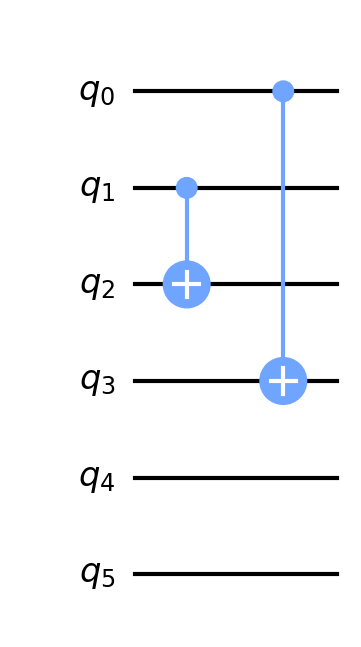
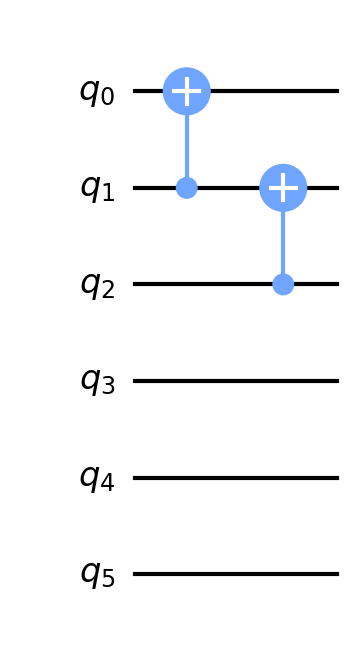
still working on it - push to pc

diff --git a/ZCswap_gaps.py b/ZCswap_gaps.py
@@ -199,28 +199,26 @@ class SabreSwap(TransformationPass):
 
     def zc_handle_cnot_new(self, mapped_dag: DAGCircuit, new_node: DAGOpNode, current_layout: Layout):
         priors = self.get_prior(new_node, current_layout)
-        if len(priors) == 2 and None not in priors:
-            print(priors)
-            print(self.gate_storage.storage)
-
-        for qubit in get_qubits_from_layout(new_node, current_layout):
-            prior = self.gate_storage.get_gate(qubit)
-            if prior is not None:
-                print(f"Found {prior} on qubit {qubit}")
-                if self.apply_before(mapped_dag, prior, new_node):
-                    print("Applying it first")
-                    apply_on_dag(mapped_dag, new_node)
-                    # Prior is still unapplied, so we leave it
-                    return
-
-                print("Better to apply it after")
-                # Apply the prior first as we can't apply a rule
+        for prior in priors:
+            print(f"handling prior gate on {get_qubits_from_layout(prior, current_layout)}")
+            if len(priors) == 2:  # we need to apply the other gate first
+                print("Applying 2nd gate first")
                 apply_on_dag(mapped_dag, prior)
                 self.gate_storage.remove_gate(prior, current_layout)
-                self.gate_storage.add_gate(new_node, current_layout)
-                return
+                priors = priors[1:]
+                continue
 
-        
+            if self.apply_before(mapped_dag, prior, new_node):
+                print("Applying it first")
+                apply_on_dag(mapped_dag, new_node)
+                # Prior is still unapplied, so we leave it
+                return
+            print("Better to apply it after")
+            # Apply the prior first as we can't apply a rule
+            apply_on_dag(mapped_dag, prior)
+            self.gate_storage.remove_gate(prior, current_layout)
+            self.gate_storage.add_gate(new_node, current_layout)
+            return
 
         print("no matches so we just save it for now")
         self.gate_storage.add_gate(new_node, current_layout)
@@ -356,7 +354,36 @@ class SabreSwap(TransformationPass):
         )
 
     def zc_handle_swap_new(self, mapped_dag: DAGCircuit, swap_node: DAGOpNode, current_layout: Layout):
-        
+        # The way this should work is
+        # - if theres 2 prior gates, apply the one that comes before, and then try commutativity with the other
+        #   - if its a single qubit, essentially just do apply before or after
+        #   - if its a 2 qubit, it needs to be flipped if applied after
+
+        priors = self.get_prior(swap_node, current_layout)
+
+        for prior in priors:
+            print(f"handling prior gate on {get_qubits_from_layout(prior, current_layout)}")
+            if len(priors) == 2:  # we need to apply the other gate first
+                print("Applying 2nd gate first")
+                apply_on_dag(mapped_dag, prior)
+                self.gate_storage.remove_gate(prior, current_layout)
+                priors = priors[1:]
+                continue
+
+            if self.apply_before(mapped_dag, prior, swap_node):
+                print("Applying it first")
+                apply_on_dag(mapped_dag, swap_node)
+                # Prior is still unapplied, so we leave it
+                return
+            print("Better to apply it after")
+            # Apply the prior first as we can't apply a rule
+            apply_on_dag(mapped_dag, prior)
+            self.gate_storage.remove_gate(prior, current_layout)
+            self.gate_storage.add_gate(swap_node, current_layout)
+            return
+
+        print("no matches so we just save it for now")
+        self.gate_storage.add_gate(swap_node, current_layout)
 
     def zc_handle_swap(self, mapped_dag: DAGCircuit, swap_node: DAGOpNode, current_layout: Layout):
         # ! quick hack to quick apply the last gate in storage
@@ -512,7 +539,7 @@ class SabreSwap(TransformationPass):
             elif node.op.name == "swap":
                 # Swap can trade places with any single qubit gate, or a flipped version of a cnot gate
                 # self.zc_handle_swap(mapped_dag, node, current_layout)
-                self.zc_handle_cnot_new(mapped_dag, node, current_layout)
+                self.zc_handle_swap_new(mapped_dag, node, current_layout)
         elif len(node.qargs) == 1:
             # if node.op.name == "rz":
             #     self.zc_handle_rz(mapped_dag, node, current_layout)
